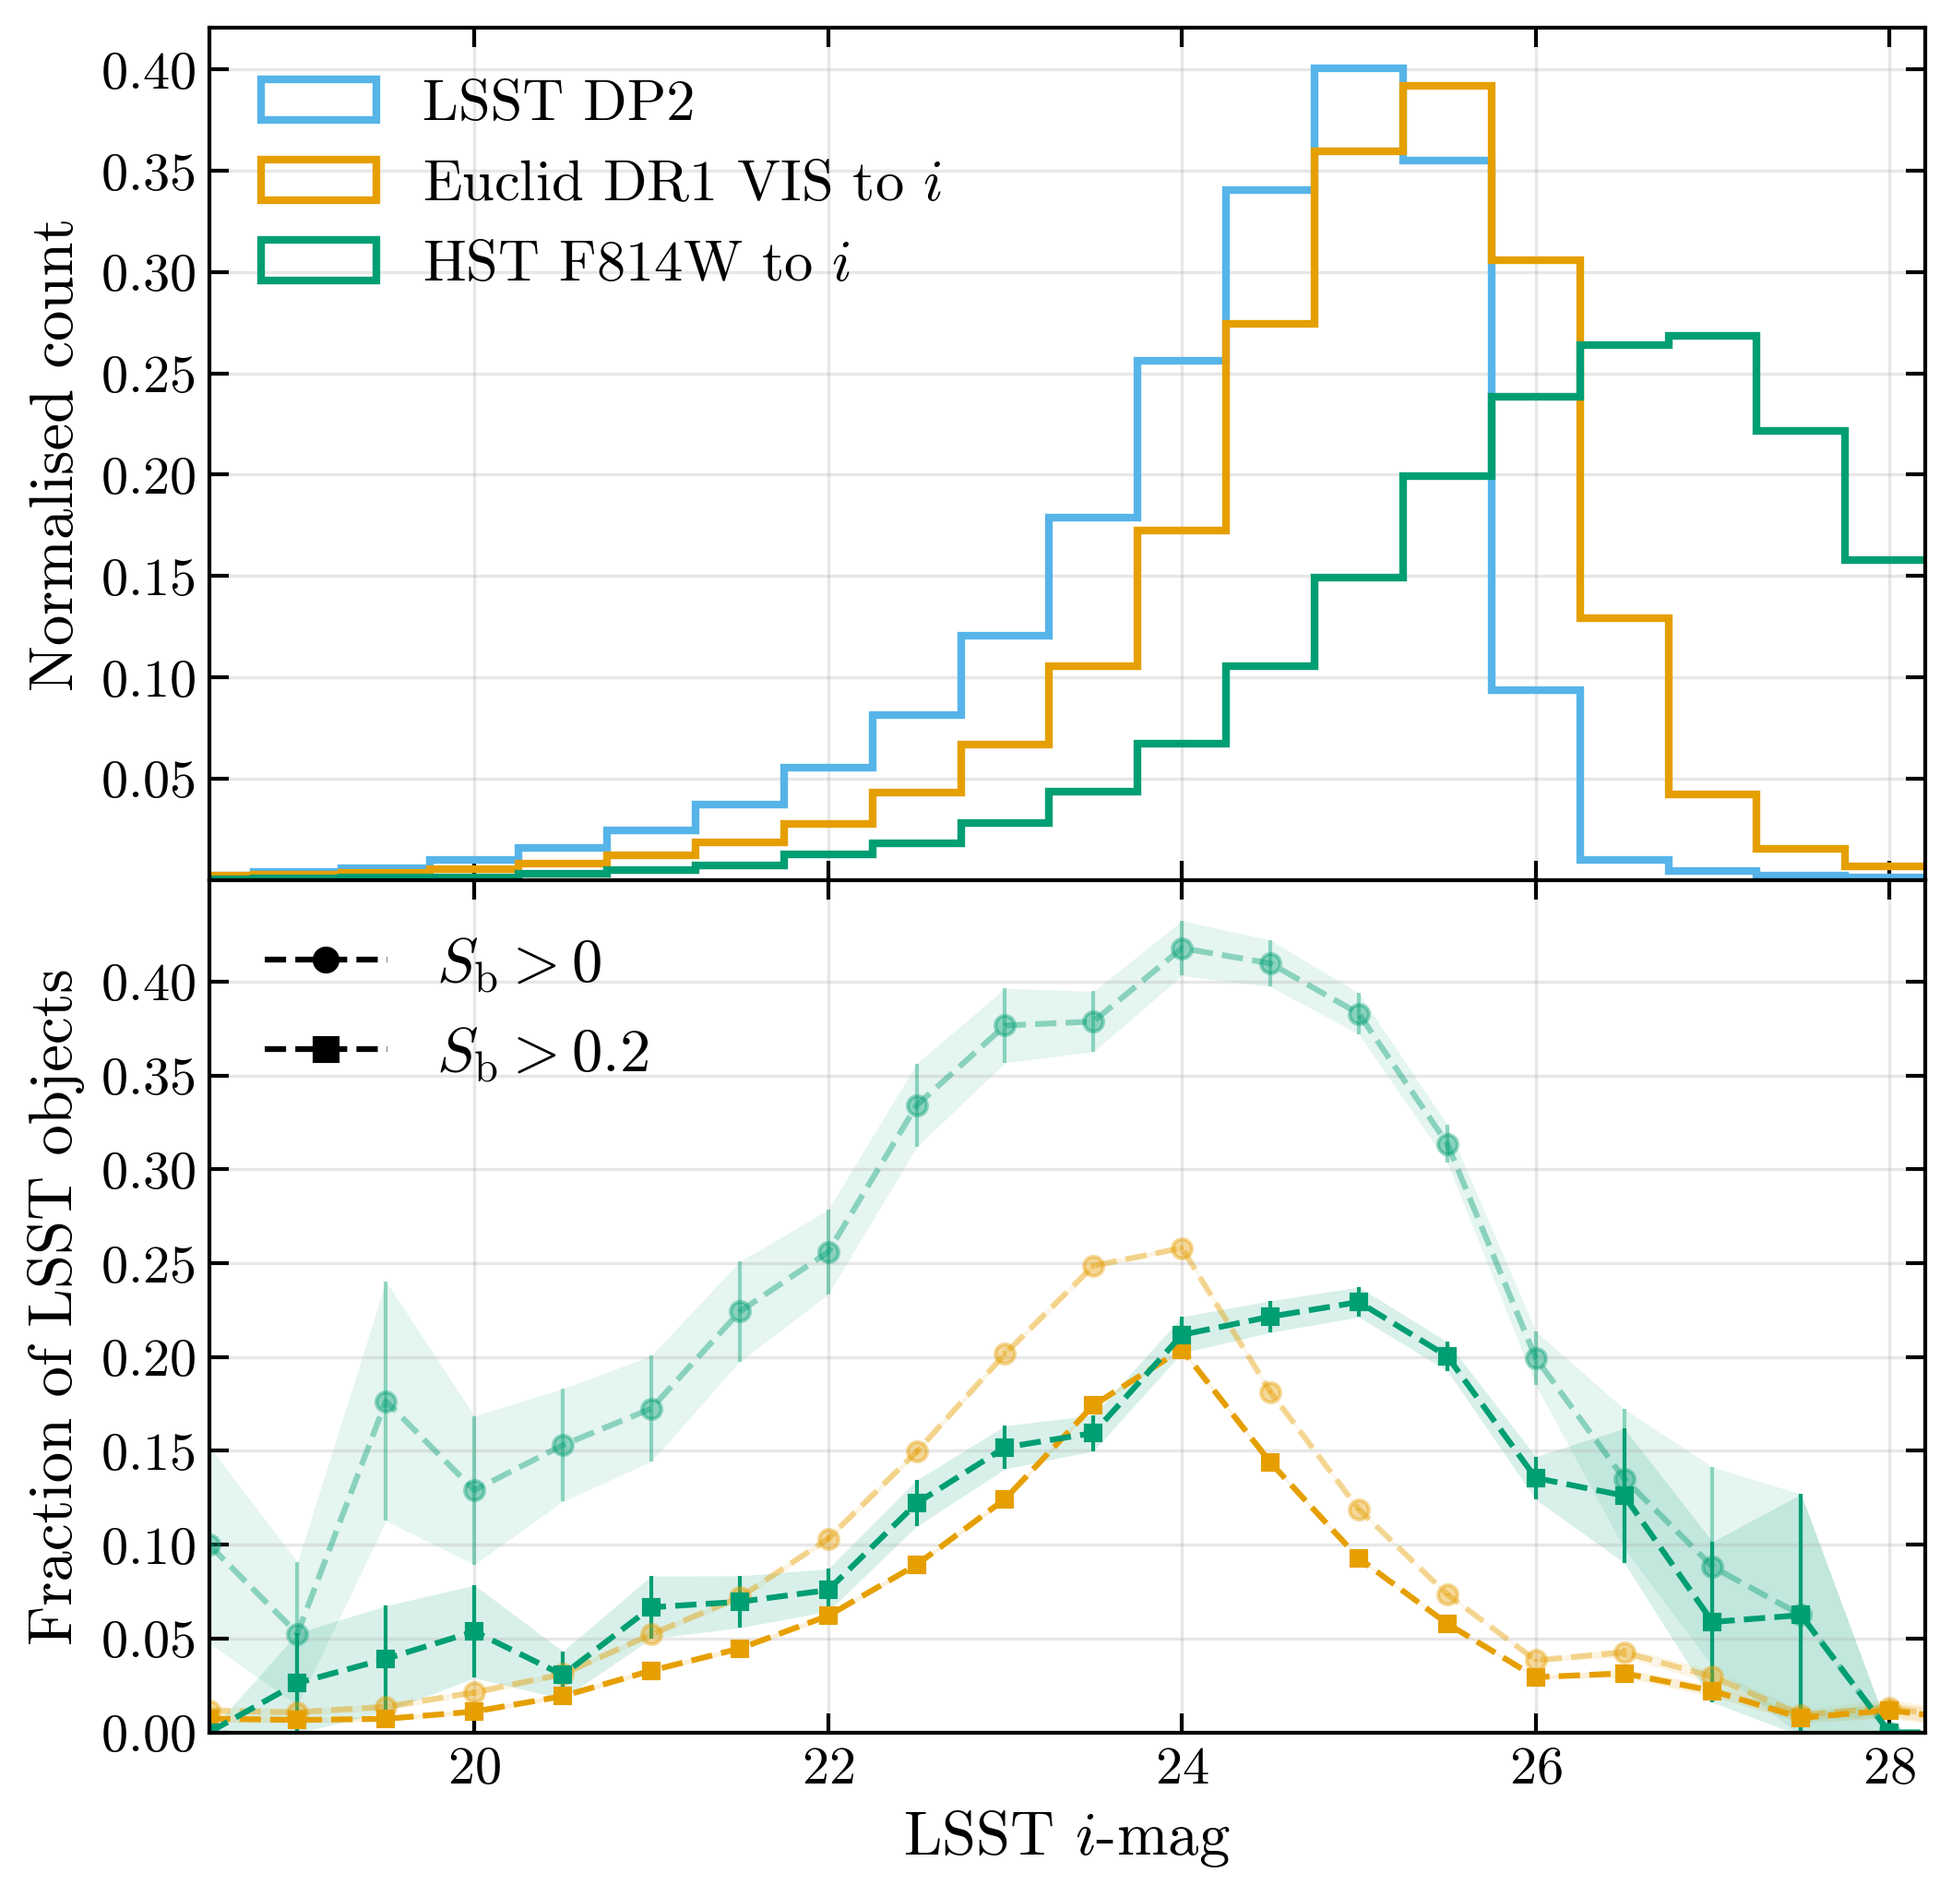
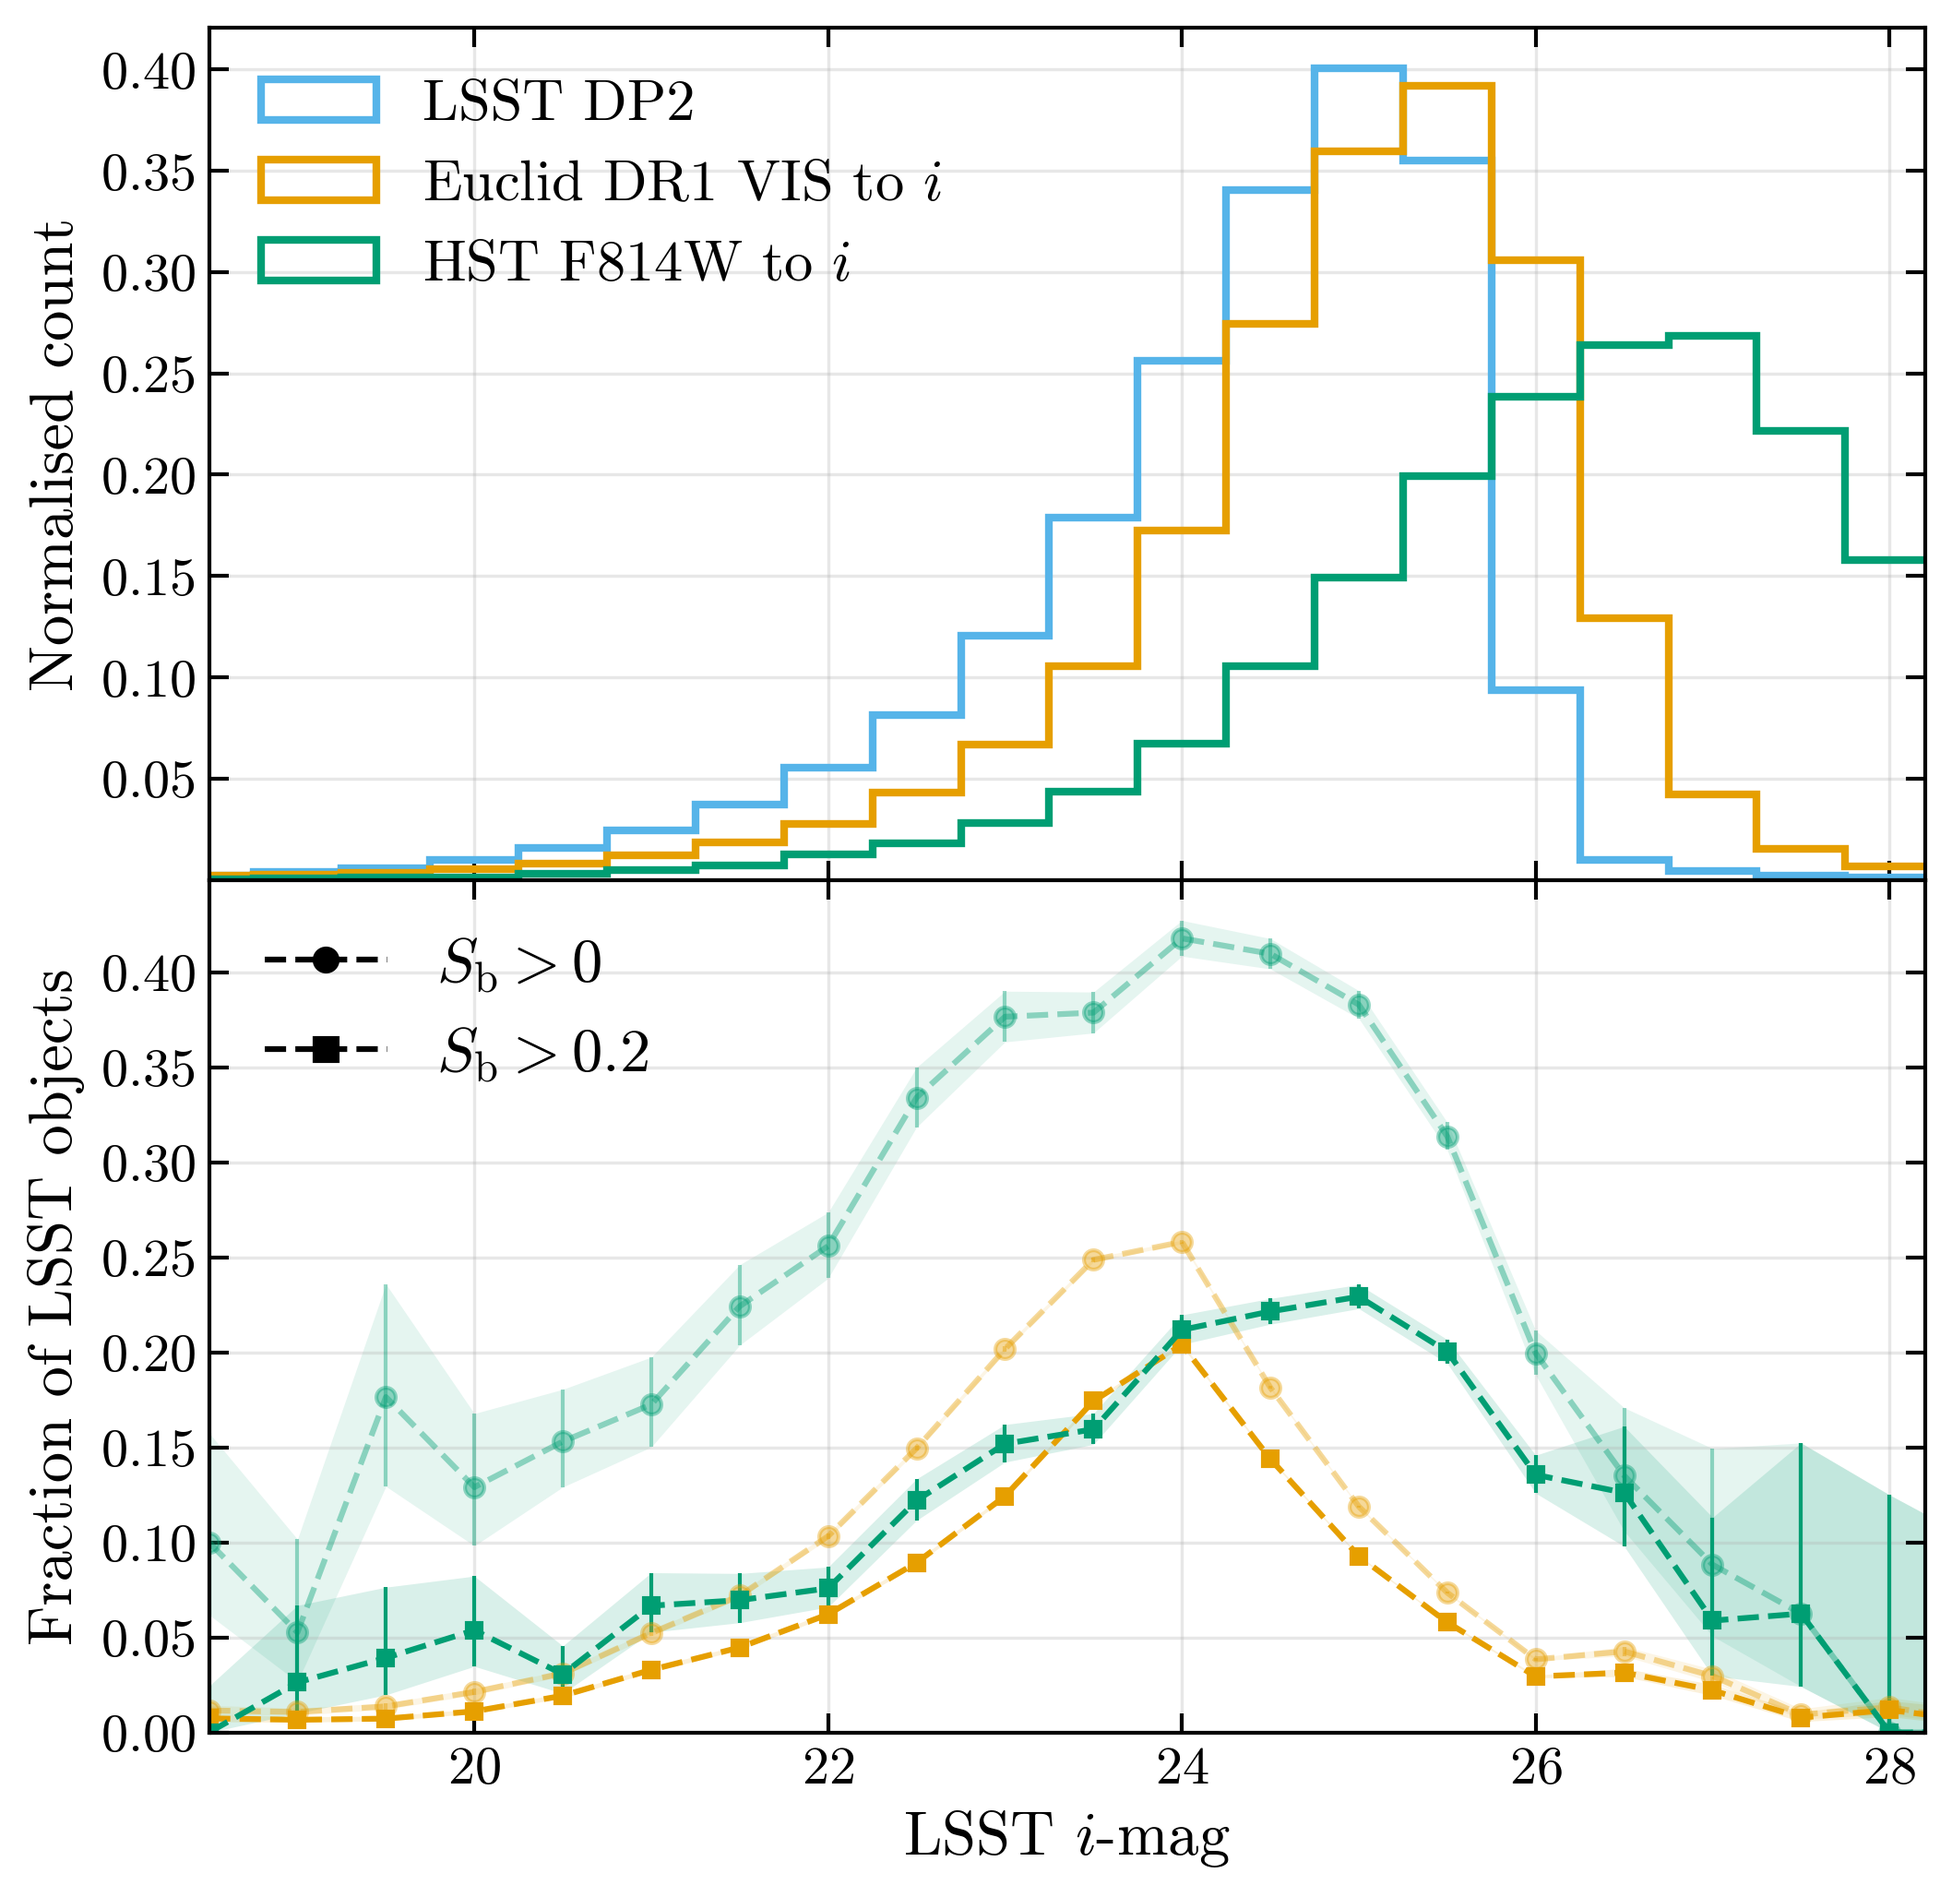
Better error bars on high_s plot with more accurate caption

diff --git a/index.md b/index.md
@@ -151,7 +151,7 @@ We now examine how blending depends on magnitude, and use the blending entropy t
 :alt: Fraction of blends and ambiguous blends as a function of i-band magnitude
 :width: 100%
 
-a) Distribution of detection magnitudes for LSST (blue), Euclid (orange) and HST (green) in ECDFS. Since the observation bands of these telescopes do not cover the same wavelength ranges, the Euclid VIS and HST F814W magnitudes are converted to the LSST $i$ band with a dedicated fit, used only for this panel and distinct from the fits described in the Methods section. b) Fraction of LSST DP2 objects with $S_\text{b} > 0$ (circles, blends) and $S_\text{b} > 0.2$ (squares, ambiguous blends), with either Euclid or HST as reference space-based data.
+a) Distribution of detection magnitudes for LSST (blue), Euclid (orange) and HST (green) in ECDFS. Since the observation bands of these telescopes do not cover the same wavelength ranges, the Euclid VIS and HST F814W magnitudes are converted to the LSST $i$ band with a dedicated fit, used only for this panel and distinct from the fits described in the Methods section. b) Fraction of LSST DP2 objects with $S_\text{b} > 0$ (circles, blends) and $S_\text{b} > 0.2$ (squares, ambiguous blends), with either Euclid or HST as reference space-based data. The error bars are 68% Wilson binomial confidence intervals.
 ```
 
 {numref}`Fig. %s-a) <fig-mag-highsb>` shows the magnitude distribution for each survey. The HST observations are much deeper than both LSST and Euclid.
